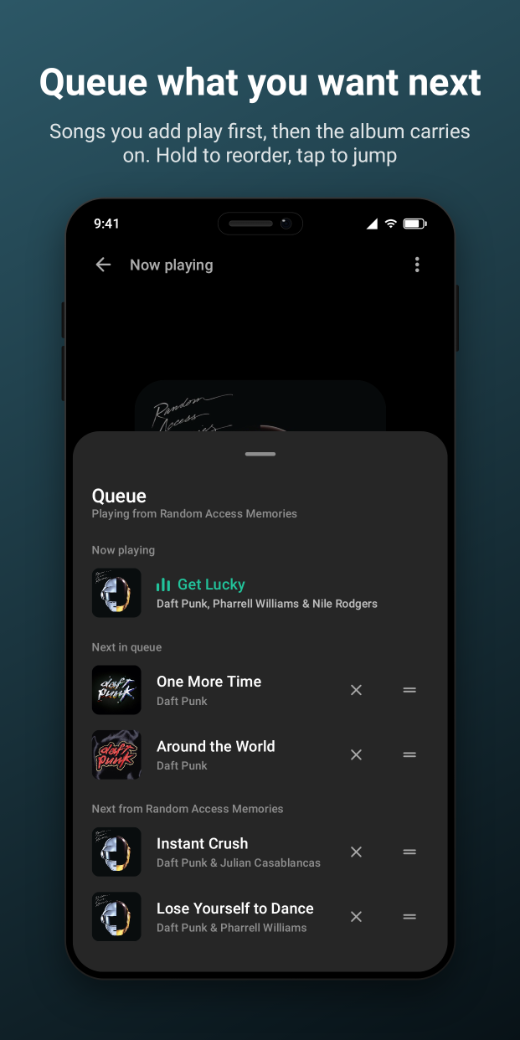
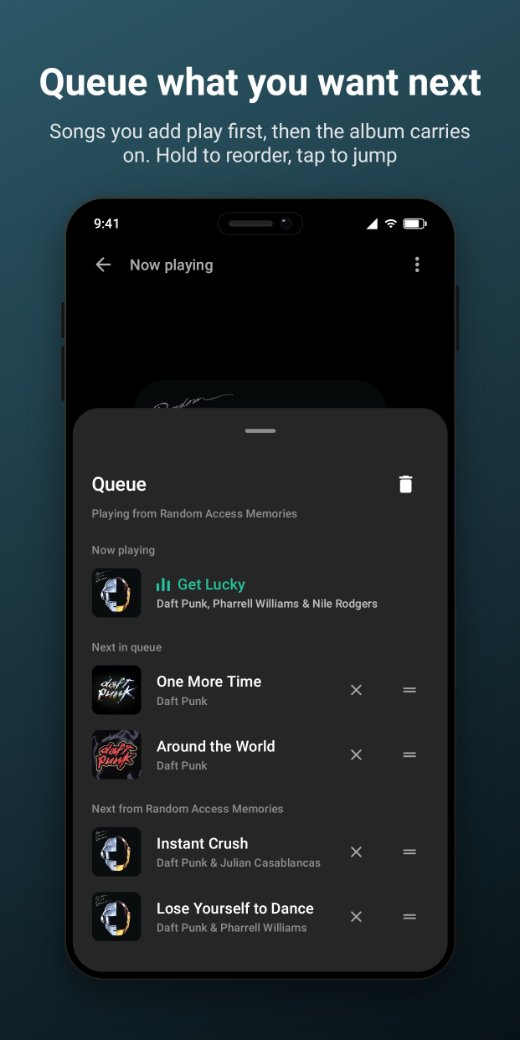
chore: regenerate the queue screenshot with its clear button (#117)

Changed region(s): [[0.1231, 0.3692, 0.8615, 0.4923], [0.1538, 0.4615, 0.2769, 0.4923]]

diff --git a/docs/screenshots.md b/docs/screenshots.md
@@ -38,7 +38,7 @@ shot that was renamed or dropped cannot stay in the folder — and in the README
 | `search.png` | `SongsScreenshots.search` | Find any song as you type | The query `daft punk` over ten paged results. |
 | `audio_search.png` | `AudioSearchScreenshots` | Or just say it | The audio search sheet over the songs screen, mid-sentence: `Daft Punk get lucky` heard so far, with the halos wide open. |
 | `player.png` | `PlayerScreenshots` | A player, and the queue behind it | Get Lucky, playing, 18 seconds into a 29-second preview. |
-| `queue.png` | `QueueScreenshots` | Queue what you want next | The queue sheet over the player: Random Access Memories playing, two songs queued by hand ahead of it. |
+| `queue.png` | `QueueScreenshots` | Queue what you want next | The queue sheet over the player: Random Access Memories playing, two songs queued by hand ahead of it, and the clear button beside the title. |
 | `options.png` | `SongOptionsScreenshots` | Queue it, or open its album | The song options sheet over the player. |
 | `album.png` | `AlbumScreenshots` | The album behind the song | Random Access Memories, loaded and liked, with the overflow beside the heart and on every track. |
 | `theme.png` | `ThemeSelectionScreenshots` | Light, dark, or whatever the phone says | The theme sheet over the songs screen, dark selected, dynamic colors off. |

diff --git a/README.md b/README.md
@@ -20,7 +20,7 @@ native Android app built with Kotlin and Jetpack Compose.
 
 | Album | Queue | Theme |
 | :--: | :--: | :--: |
-| <img src="docs/screenshots/album.png" width="260" alt="An album and its tracks, with the queue actions in the top bar"> | <img src="docs/screenshots/queue.png" width="260" alt="The queue sheet over the player, with songs added by hand playing before the rest of the album"> | <img src="docs/screenshots/theme.png" width="260" alt="The theme sheet over the songs screen, with light, dark and system previews and a dynamic colors toggle"> |
+| <img src="docs/screenshots/album.png" width="260" alt="An album and its tracks, with the queue actions in the top bar"> | <img src="docs/screenshots/queue.png" width="260" alt="The queue sheet over the player, with a clear button beside its title and songs added by hand playing before the rest of the album"> | <img src="docs/screenshots/theme.png" width="260" alt="The theme sheet over the songs screen, with light, dark and system previews and a dynamic colors toggle"> |
 
 | Library | Library as a grid |
 | :--: | :--: |
